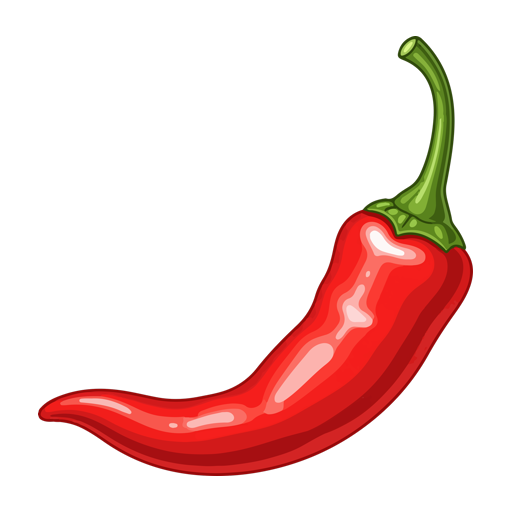
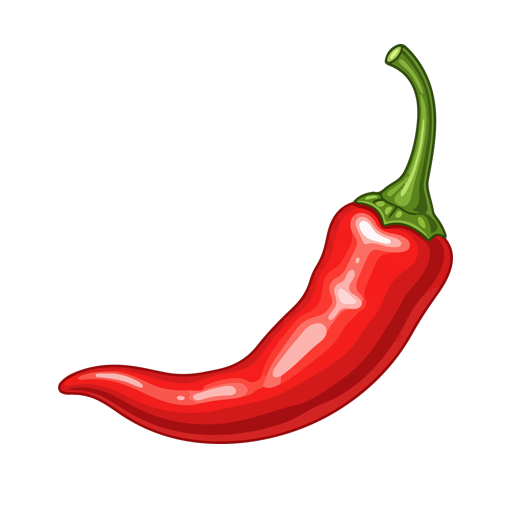
Refine KVKV image positioning

Changed region(s): [[0.0625, 0.0625, 0.9375, 0.9375]]

diff --git a/scripts/extract-pptx-images.js b/scripts/extract-pptx-images.js
@@ -24,7 +24,15 @@ const sourceOverrides = new Map([
   ["beca", path.join(customAssetDir, "beca.jpg")],
   ["lima", path.join(customAssetDir, "lima.png")],
 ]);
-const safelyFramedWords = new Set(["baju", "beca", "cili", "kuda", "satu", "tiga", "lima"]);
+const framingProfiles = new Map([
+  ["baju", { size: 400, offsetY: -12 }],
+  ["beca", { size: 480 }],
+  ["cili", { size: 400, offsetY: -12 }],
+  ["kuda", { size: 440 }],
+  ["lima", { size: 400, offsetY: -12 }],
+  ["satu", { size: 400, offsetY: -12 }],
+  ["tiga", { size: 400, offsetY: -12 }],
+]);
 const slideFiles = fs.readdirSync(slidesDir)
   .filter((file) => /^slide\d+\.xml$/.test(file))
   .sort((a, b) => Number(a.match(/\d+/)[0]) - Number(b.match(/\d+/)[0]));
@@ -95,13 +103,15 @@ function replaceWithRetry(source, destination) {
   throw lastError;
 }
 
-function optimizeToPng(source, destination, { framed = false, removeWhite = false } = {}) {
+function optimizeToPng(source, destination, { framing, removeWhite = false } = {}) {
   const filters = [];
   if (removeWhite) filters.push("colorkey=0xFFFFFF:0.12:0.05");
-  filters.push(framed
-    ? "scale=440:440:force_original_aspect_ratio=decrease"
+  filters.push(framing
+    ? `scale=${framing.size}:${framing.size}:force_original_aspect_ratio=decrease`
     : "scale=w='min(512,iw)':h='min(512,ih)':force_original_aspect_ratio=decrease");
-  if (framed) filters.push("pad=512:512:(ow-iw)/2:(oh-ih)/2:color=black@0");
+  if (framing) {
+    filters.push(`pad=512:512:(ow-iw)/2:(oh-ih)/2+${framing.offsetY || 0}:color=black@0`);
+  }
   filters.push("format=rgba");
   const temporary = `${destination}.tmp.png`;
   fs.rmSync(temporary, { force: true });
@@ -156,7 +166,7 @@ for (const slide of slides) {
   const extension = path.extname(selected.media).toLowerCase();
   if (sourceOverrides.has(word) || extension === ".png" || extension === ".jpg" || extension === ".jpeg") {
     optimizeToPng(source, path.join(outputDir, `${word}.png`), {
-      framed: safelyFramedWords.has(word),
+      framing: framingProfiles.get(word),
       removeWhite: word === "beca" || word === "lima",
     });
   } else {
@@ -168,7 +178,7 @@ for (const slide of slides) {
 for (const [word, source] of sourceOverrides) {
   if (mapped.some((item) => item.word === word)) continue;
   optimizeToPng(source, path.join(outputDir, `${word}.png`), {
-    framed: safelyFramedWords.has(word),
+    framing: framingProfiles.get(word),
     removeWhite: word === "beca" || word === "lima",
   });
   mapped.push({ word, slide: "custom", media: path.basename(source) });
